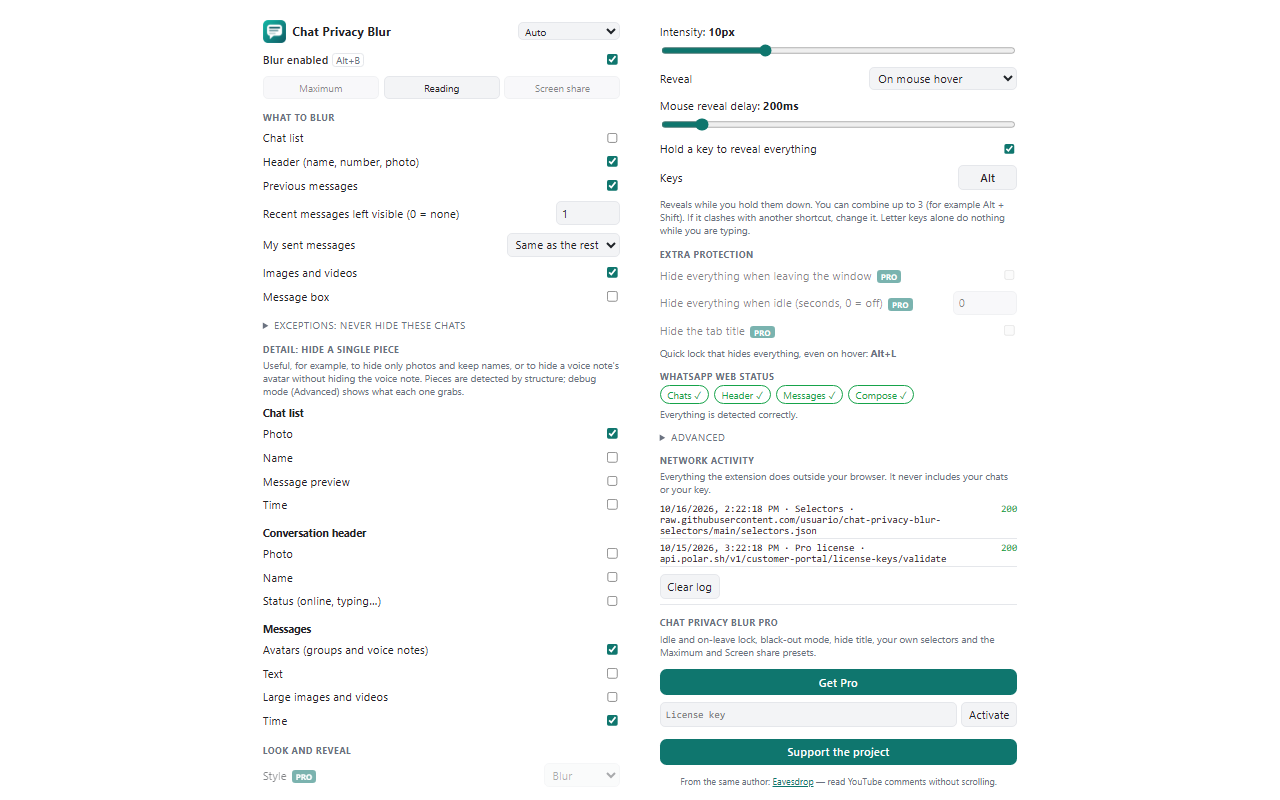
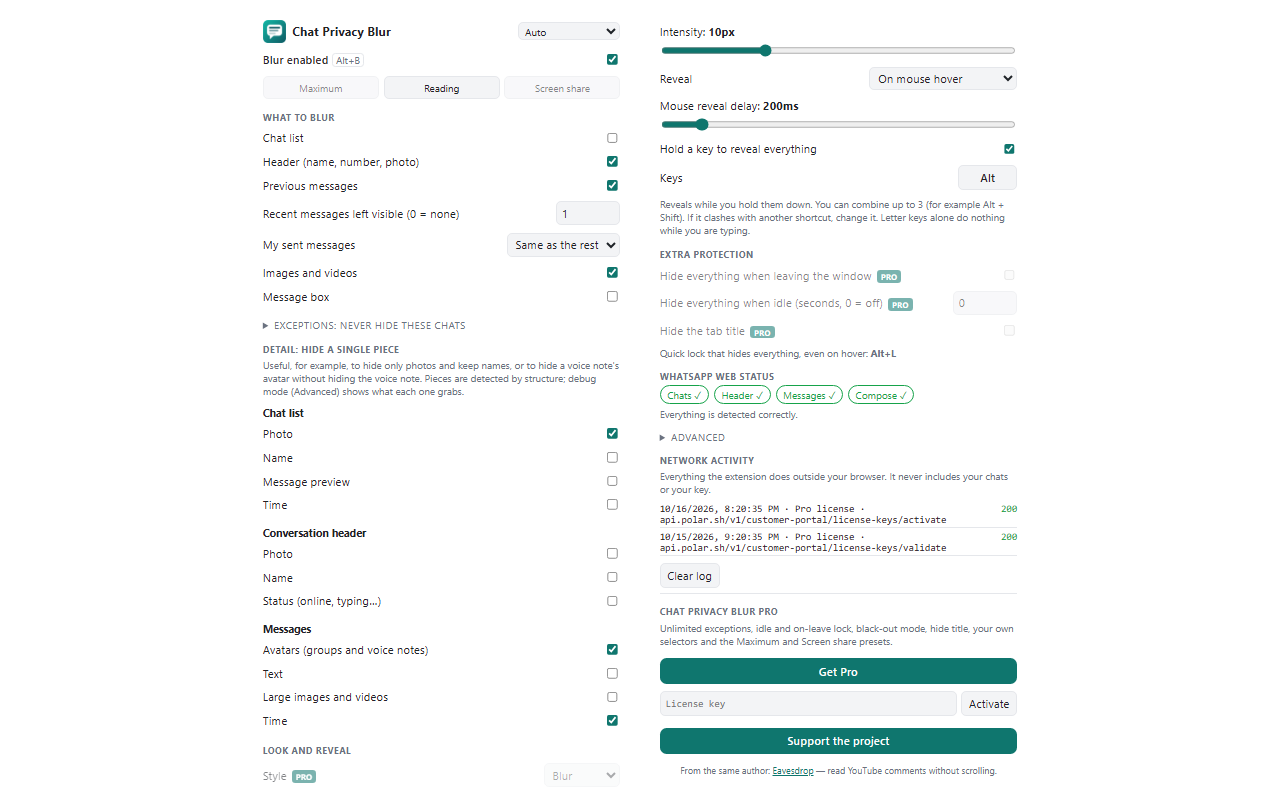
feat(sitio): enlace a la ficha del Chrome Web Store, Pro visible y politica de privacidad actualizada

Changed region(s): [[0.5, 0.625, 0.8125, 1.0], [0.7812, 0.6562, 0.8125, 0.6875]]

diff --git a/index.html b/index.html
@@ -162,11 +162,11 @@
             <h3 data-l="es">Gratis</h3><h3 data-l="en">Free</h3>
             <div class="big">$0</div>
             <ul data-l="es">
-              <li>Todos los sectores a desenfocar</li><li>Reveal por mouse, clic o tecla</li><li>Demora de reveal ajustable</li>
+              <li>Todos los sectores a desenfocar</li><li>Hasta 2 excepciones por contacto</li><li>Reveal por mouse, clic o tecla</li><li>Demora de reveal ajustable</li>
               <li>Bloqueo rápido</li><li>Reparación automática</li><li class="pro-off-only">Bloqueo por inactividad y al salir</li><li class="pro-off-only">Modo negro y selectores propios</li>
             </ul>
             <ul data-l="en">
-              <li>All sectors to blur</li><li>Reveal by mouse, click or key</li><li>Adjustable reveal delay</li>
+              <li>All sectors to blur</li><li>Up to 2 contact exceptions</li><li>Reveal by mouse, click or key</li><li>Adjustable reveal delay</li>
               <li>Quick lock</li><li>Self-repair</li><li class="pro-off-only">Idle and on-leave lock</li><li class="pro-off-only">Black-out mode and own selectors</li>
             </ul>
           </div>
@@ -174,11 +174,11 @@
             <h3>Pro</h3>
             <div class="big" data-l="es">Pago único</div><div class="big" data-l="en">One-time payment</div>
             <ul data-l="es">
-              <li>Todo lo gratuito</li><li>Bloqueo por inactividad y al salir de la ventana</li><li>Modo negro</li>
+              <li>Todo lo gratuito</li><li>Excepciones ilimitadas</li><li>Bloqueo por inactividad y al salir de la ventana</li><li>Modo negro</li>
               <li>Ocultar el título de la pestaña</li><li>Selectores CSS propios</li><li>Presets Máxima y Pantalla</li>
             </ul>
             <ul data-l="en">
-              <li>Everything in Free</li><li>Idle and on-leave lock</li><li>Black-out mode</li>
+              <li>Everything in Free</li><li>Unlimited exceptions</li><li>Idle and on-leave lock</li><li>Black-out mode</li>
               <li>Hide the tab title</li><li>Your own CSS selectors</li><li>Maximum and Screen share presets</li>
             </ul>
           </div>
@@ -195,14 +195,14 @@
           <p data-l="es">Sí, por ahora todo está incluido y es gratis.</p>
           <p data-l="en">Yes, for now everything is included and free.</p></details>
         <details class="pro-only"><summary data-l="es">¿Es gratis? ¿Qué agrega Pro?</summary><summary data-l="en">Is it free? What does Pro add?</summary>
-          <p data-l="es">Lo esencial es gratis para siempre: todos los sectores, reveal por mouse, clic o tecla, bloqueo rápido y reparación automática. Pro (pago único) suma bloqueo por inactividad y al salir de la ventana, modo negro, ocultar el título de la pestaña, selectores propios y los presets Máxima y Pantalla.</p>
-          <p data-l="en">The essentials are free forever: all sectors, reveal by mouse, click or key, quick lock and self-repair. Pro (one-time payment) adds idle and on-leave lock, black-out mode, hiding the tab title, your own selectors and the Maximum and Screen share presets.</p></details>
+          <p data-l="es">Lo esencial es gratis para siempre: todos los sectores, reveal por mouse, clic o tecla, bloqueo rápido y reparación automática. Pro (pago único) suma excepciones ilimitadas (gratis hasta 2), bloqueo por inactividad y al salir de la ventana, modo negro, ocultar el título de la pestaña, selectores propios y los presets Máxima y Pantalla.</p>
+          <p data-l="en">The essentials are free forever: all sectors, reveal by mouse, click or key, quick lock and self-repair. Pro (one-time payment) adds unlimited exceptions (free up to 2), idle and on-leave lock, black-out mode, hiding the tab title, your own selectors and the Maximum and Screen share presets.</p></details>
         <details><summary data-l="es">¿Lee o guarda mis mensajes?</summary><summary data-l="en">Does it read or store my messages?</summary>
           <p data-l="es">No. Solo aplica un efecto visual sobre la página, dentro de tu navegador. No recolecta, guarda ni envía mensajes, contactos ni números. No usa servidores propios ni analítica. En la extensión hay una pantalla de “Actividad de red” que muestra todo lo que hace fuera del navegador.</p>
           <p data-l="en">No. It only applies a visual effect to the page, inside your browser. It does not collect, store or send messages, contacts or numbers. No own servers, no analytics. The extension has a “Network activity” screen that shows everything it does outside the browser.</p></details>
         <details><summary data-l="es">¿Cómo dejo siempre visible un chat?</summary><summary data-l="en">How do I keep one chat always visible?</summary>
-          <p data-l="es">Con la lista de Excepciones del popup: escribís el nombre o número del contacto, o tocás “Agregar el chat abierto”. Elegís si se libera solo el chat en la lista o también la conversación, y se puede definir por contacto agregando “| list” o “| chat” al final de la línea.</p>
-          <p data-l="en">With the Exceptions list in the popup: type the contact's name or number, or click “Add the open chat”. You choose whether only the chat in the list is released or the conversation too, and you can set it per contact by adding “| list” or “| chat” at the end of the line.</p></details>
+          <p data-l="es">Con la lista de Excepciones del popup (gratis hasta 2 contactos; Pro no tiene límite): escribís el nombre o número del contacto, o tocás “Agregar el chat abierto”. Elegís si se libera solo el chat en la lista o también la conversación, y se puede definir por contacto agregando “| list” o “| chat” al final de la línea.</p>
+          <p data-l="en">With the Exceptions list in the popup (free for up to 2 contacts; Pro has no limit): type the contact's name or number, or click “Add the open chat”. You choose whether only the chat in the list is released or the conversation too, and you can set it per contact by adding “| list” or “| chat” at the end of the line.</p></details>
         <details><summary data-l="es">¿Cuántos mensajes quedan visibles?</summary><summary data-l="en">How many messages stay visible?</summary>
           <p data-l="es">Los que elijas, de 0 a 50. Tus propios mensajes enviados se pueden dejar como los demás, siempre tapados o siempre visibles.</p>
           <p data-l="en">As many as you choose, from 0 to 50. Your own sent messages can follow the same rule, be always hidden or always visible.</p></details>

diff --git a/privacy.html b/privacy.html
@@ -32,7 +32,7 @@
       <p>Únicamente tus preferencias de configuración (por ejemplo qué sectores desenfocar, la intensidad o la tecla para revelar) en el almacenamiento del navegador (<code>chrome.storage</code>). Si iniciaste sesión en Chrome con la sincronización activada, Chrome puede sincronizar esas preferencias entre tus dispositivos.</p>
 
       <h2>Conexiones de red</h2>
-      <p>La extensión no se conecta a servidores del desarrollador. Solo si ingresás una URL de <code>raw.githubusercontent.com</code> en las opciones avanzadas, descarga periódicamente un archivo JSON con selectores CSS. Esa descarga no envía ningún dato tuyo.</p>
+      <p>La extensión no se conecta a servidores del desarrollador. Solo se conecta a Polar si activás una licencia Pro (ver más abajo).</p>
 
       <h2>Versión Pro</h2>
       <p>Si activás una licencia Pro, la extensión envía tu clave de licencia (y un identificador anónimo del equipo, generado al azar) a Polar (<code>api.polar.sh</code>) para validarla, y la vuelve a validar cada 24 horas. No se envía ningún otro dato. Polar procesa el pago y los datos de compra bajo su propia política de privacidad. La clave se guarda solo en el almacenamiento local de tu navegador.</p>
@@ -62,7 +62,7 @@
       <p>Only your configuration preferences (for example which sectors to blur, the intensity or the reveal key) in browser storage (<code>chrome.storage</code>). If you are signed in to Chrome with sync enabled, Chrome may sync those preferences across your devices.</p>
 
       <h2>Network connections</h2>
-      <p>The extension does not connect to any server run by the developer. Only if you enter a <code>raw.githubusercontent.com</code> URL in the advanced options does it periodically download a JSON file of CSS selectors. That download sends none of your data.</p>
+      <p>The extension does not connect to any server run by the developer. It only connects to Polar if you activate a Pro license (see below).</p>
 
       <h2>Pro version</h2>
       <p>If you activate a Pro license, the extension sends your license key (and a random anonymous device identifier) to Polar (<code>api.polar.sh</code>) to validate it, and validates it again every 24 hours. No other data is sent. Polar processes the payment and purchase data under its own privacy policy. The key is stored only in your browser's local storage.</p>

diff --git a/site.js b/site.js
@@ -1,6 +1,6 @@
 // ---- Configuración del sitio ----
-const CHROME_WEB_STORE_URL = ""; // pegar la URL de la ficha cuando esté publicada
-const PRO_LIVE = false; // true cuando exista el plan Pro (muestra insignias y precios Pro)
+const CHROME_WEB_STORE_URL = "https://chromewebstore.google.com/detail/chat-privacy-blur/gejcelngehokmnpnndflacodglccabki";
+const PRO_LIVE = true; // muestra insignias, precios y preguntas de Pro
 
 const root = document.documentElement;
 root.dataset.pro = PRO_LIVE ? "on" : "off";
